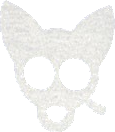
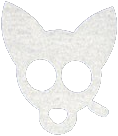
changed dog game from 5 to 10 piece puzzle and added background to it

diff --git a/index.html b/index.html
@@ -138,36 +138,65 @@
 
     </section>
     <section id="game_2">
-        <div class="game-2-backgrounds">
-            <div class="game-2-bg" ondrop="drop_handler(event)" ondragover="dragover_handler(event)" id="game-2-bg-head">
-            </div>
-            <div class="game-2-bg" ondrop="drop_handler(event)" ondragover="dragover_handler(event)" id="game-2-bg-front-paws">
-            </div>
-            <div class="game-2-bg" ondrop="drop_handler(event)" ondragover="dragover_handler(event)" id="game-2-bg-torso">
-            </div>
-            <div class="game-2-bg" ondrop="drop_handler(event)" ondragover="dragover_handler(event)" id="game-2-bg-back-paws">
-            </div>
-            <div class="game-2-bg" ondrop="drop_handler(event)" ondragover="dragover_handler(event)" id="game-2-bg-tail">
-            </div>
-        </div>
-    
-        <div id="game-2-parts" class="game-2-parts">
-            <div class="game-2-part">
-                <img src="assets/img/game-2-parts/tail.png" alt="tail" draggable="true" id="game-2-part-tail">
-            </div>
-            <div class="game-2-part">
-                <img src="assets/img/game-2-parts/front-paws.png" alt="front-paws" draggable="true" id="game-2-part-front-paws">
-            </div>
-            <div class="game-2-part">
-                <img src="assets/img/game-2-parts/back-paws.png" alt="back-paws" draggable="true" id="game-2-part-back-paws">
-            </div>
-            <div class="game-2-part">
-                <img src="assets/img/game-2-parts/torso.png" alt="torso" draggable="true" id="game-2-part-torso">
-            </div>
-            <div class="game-2-part">
-                <img src="assets/img/game-2-parts/head.png" alt="head" draggable="true" id="game-2-part-head">
-            </div>
-        </div>
+		<div id="game-2-container">
+			<div id="game-2-layer">
+				<div class="game-2-backgrounds">
+					<div class="game-2-bg" ondrop="drop_handler(event)" ondragover="dragover_handler(event)" id="game-2-bg-head">
+					</div>
+					<div class="game-2-bg" ondrop="drop_handler(event)" ondragover="dragover_handler(event)" id="game-2-bg-front-paw-1">
+					</div>
+					<div class="game-2-bg" ondrop="drop_handler(event)" ondragover="dragover_handler(event)" id="game-2-bg-front-paw-2">
+					</div>
+					<div class="game-2-bg" ondrop="drop_handler(event)" ondragover="dragover_handler(event)" id="game-2-bg-torso-1">
+					</div>
+					<div class="game-2-bg" ondrop="drop_handler(event)" ondragover="dragover_handler(event)" id="game-2-bg-torso-2">
+					</div>
+					<div class="game-2-bg" ondrop="drop_handler(event)" ondragover="dragover_handler(event)" id="game-2-bg-torso-3">
+					</div>
+					<div class="game-2-bg" ondrop="drop_handler(event)" ondragover="dragover_handler(event)" id="game-2-bg-back-paw-1">
+					</div>
+					<div class="game-2-bg" ondrop="drop_handler(event)" ondragover="dragover_handler(event)" id="game-2-bg-back-paw-2">
+					</div>
+					<div class="game-2-bg" ondrop="drop_handler(event)" ondragover="dragover_handler(event)" id="game-2-bg-tail-1">
+					</div>
+					<div class="game-2-bg" ondrop="drop_handler(event)" ondragover="dragover_handler(event)" id="game-2-bg-tail-2">
+					</div>
+				</div>
+			
+				<div class="game-2-parts">
+					<div class="game-2-part">
+						<img src="assets/img/game-2-parts/tail-1.png" alt="tail" draggable="true" id="game-2-part-tail-1">
+					</div>
+					<div class="game-2-part">
+						<img src="assets/img/game-2-parts/front-paw-2.png" alt="front-paws" draggable="true" id="game-2-part-front-paw-2">
+					</div>
+					<div class="game-2-part">
+						<img src="assets/img/game-2-parts/back-paw-1.png" alt="back-paws" draggable="true" id="game-2-part-back-paw-1">
+					</div>
+					<div class="game-2-part">
+						<img src="assets/img/game-2-parts/torso-2.png" alt="torso" draggable="true" id="game-2-part-torso-2">
+					</div>
+					<div class="game-2-part">
+						<img src="assets/img/game-2-parts/head.png" alt="head" draggable="true" id="game-2-part-head">
+					</div>
+					<div class="game-2-part">
+						<img src="assets/img/game-2-parts/front-paw-1.png" alt="head" draggable="true" id="game-2-part-front-paw-1">
+					</div>
+					<div class="game-2-part">
+						<img src="assets/img/game-2-parts/tail-2.png" alt="head" draggable="true" id="game-2-part-tail-2">
+					</div>
+					<div class="game-2-part">
+						<img src="assets/img/game-2-parts/torso-1.png" alt="head" draggable="true" id="game-2-part-torso-1">
+					</div>
+					<div class="game-2-part">
+						<img src="assets/img/game-2-parts/back-paw-2.png" alt="head" draggable="true" id="game-2-part-back-paw-2">
+					</div>
+					<div class="game-2-part">
+						<img src="assets/img/game-2-parts/torso-3.png" alt="head" draggable="true" id="game-2-part-torso-3">
+					</div>
+				</div>
+			</div>
+		</div>
     </section>
     <section id="story_link_2">
 

diff --git a/assets/js/script.js b/assets/js/script.js
@@ -8,16 +8,26 @@ function dragstart_handler(ev) {
 window.addEventListener('DOMContentLoaded', () => {
     // Get the element by id
     let head = document.getElementById("game-2-part-head");
-    let front_paws = document.getElementById("game-2-part-front-paws");
-    let torso = document.getElementById("game-2-part-torso");
-    let back_paws = document.getElementById("game-2-part-back-paws");
-    let tail = document.getElementById("game-2-part-tail");
+    let front_paw_1 = document.getElementById("game-2-part-front-paw-1");
+    let front_paw_2 = document.getElementById("game-2-part-front-paw-2");
+    let torso_1 = document.getElementById("game-2-part-torso-1");
+    let torso_2 = document.getElementById("game-2-part-torso-2");
+    let torso_3 = document.getElementById("game-2-part-torso-3");
+    let back_paw_1 = document.getElementById("game-2-part-back-paw-1");
+    let back_paws_2 = document.getElementById("game-2-part-back-paw-2");
+    let tail_1 = document.getElementById("game-2-part-tail-1");
+    let tail_2 = document.getElementById("game-2-part-tail-2");
     // Add the ondragstart event listener
     head.addEventListener("dragstart", dragstart_handler);
-    front_paws.addEventListener("dragstart", dragstart_handler);
-    torso.addEventListener("dragstart", dragstart_handler);
-    back_paws.addEventListener("dragstart", dragstart_handler);
-    tail.addEventListener("dragstart", dragstart_handler);
+    front_paw_1.addEventListener("dragstart", dragstart_handler);
+    front_paw_2.addEventListener("dragstart", dragstart_handler);
+    torso_1.addEventListener("dragstart", dragstart_handler);
+    torso_2.addEventListener("dragstart", dragstart_handler);
+    torso_3.addEventListener("dragstart", dragstart_handler);
+    back_paw_1.addEventListener("dragstart", dragstart_handler);
+    back_paws_2.addEventListener("dragstart", dragstart_handler);
+    tail_1.addEventListener("dragstart", dragstart_handler);
+    tail_2.addEventListener("dragstart", dragstart_handler);
 });
 
 function dragover_handler(ev) {

diff --git a/assets/style.css b/assets/style.css
@@ -8,6 +8,23 @@ h1, h2, h3, h4, h5 {
     font-family: 'ZCOOL KuaiLe', sans-serif;
 }
 
+#game-2-container {
+    text-align: center;
+    background-image: url(../assets/img/game-2-backgrounds/park-night.png);
+    background-position: bottom;
+    background-size: cover;
+    background-repeat: no-repeat;
+    width: 70%;
+    margin-left: auto;
+    margin-right: auto;
+}
+
+#game-2-layer {
+    background-color: rgba(0, 0, 0, 0.6);
+    padding-top: 30px;
+    padding-bottom: 30px;
+}
+
 .game-2-backgrounds {
     width: 348px;
     height: 253px;
@@ -33,30 +50,65 @@ h1, h2, h3, h4, h5 {
     height: 132px;
 }
 
-#game-2-bg-front-paws {
+#game-2-bg-front-paw-1 {
     top: 119px;
-    left: 92px;
-    width: 28px;
-    height: 126px;
+    left: 97px;
+    width: 24px;
+    height: 65px;
 }
 
-#game-2-bg-torso {
-    top: 98px;
-    left: 116px;
-    width: 100px;
+#game-2-bg-front-paw-2 {
+    top: 183px;
+    left: 89px;
+    width: 34px;
+    height: 73px;
+}
+
+#game-2-bg-torso-1 {
+    top: 110px;
+    left: 109px;
+    width: 28px;
     height: 79px;
 }
 
-#game-2-bg-back-paws {
-    top: 98px;
-    left: 208px;
-    width: 49px;
-    height: 153px;
+#game-2-bg-torso-2 {
+    top: 102px;
+    left: 134px;
+    width: 20px;
+    height: 72px;
 }
 
-#game-2-bg-tail {
-    top: 44px;
+#game-2-bg-torso-3 {
+    top: 101px;
+    left: 157px;
+    width: 53px;
+    height: 65px;
+}
+
+#game-2-bg-back-paw-1 {
+    top: 102px;
+    left: 208px;
+    width: 49px;
+    height: 95px;
+}
+
+#game-2-bg-back-paw-2 {
+    top: 192px;
+    left: 225px;
+    width: 31px;
+    height: 62px;
+}
+
+#game-2-bg-tail-1 {
+    top: 84px;
     left: 257px;
-    width: 95px;
-    height: 74px;
+    width: 56px;
+    height: 40px;
+}
+
+#game-2-bg-tail-2 {
+    top: 44px;
+    left: 312px;
+    width: 38px;
+    height: 45px;
 }
